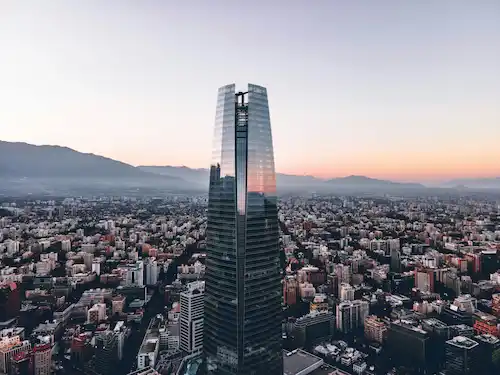
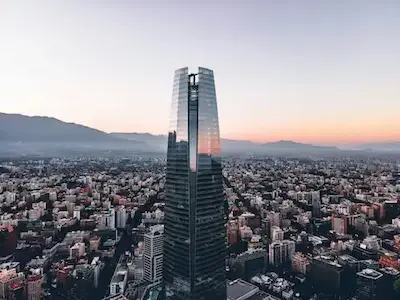
final changes w03

diff --git a/place.html b/place.html
@@ -18,7 +18,7 @@
         <div class="hero">
             <picture>
                 <source srcset="images/santiago-large.webp" media="(min-width: 800px)">
-                <img src="images/santiago-small.webp" alt="Greater Santiago, Chile" width="1000" height="500">
+                <img src="images/santiago-small.webp" alt="Greater Santiago, Chile" width="400" height="500">
             </picture>
         </div>
 

diff --git a/styles/place.css b/styles/place.css
@@ -57,7 +57,7 @@ img,
 /* Tarjetas: .data y .weather */
 section.data,
 section.weather {
-    background-color: ffffff;
+    background-color: #ffffff;
     border-radius: 0.5rem;
     border-top: 5px solid var(--secondary-color); 
     box-shadow: 0 2px 8px #0000001a;
